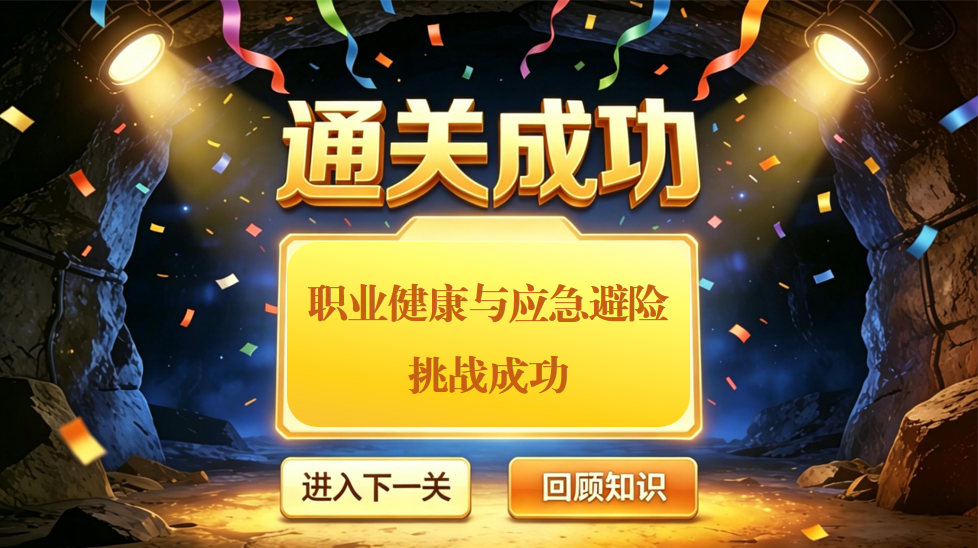
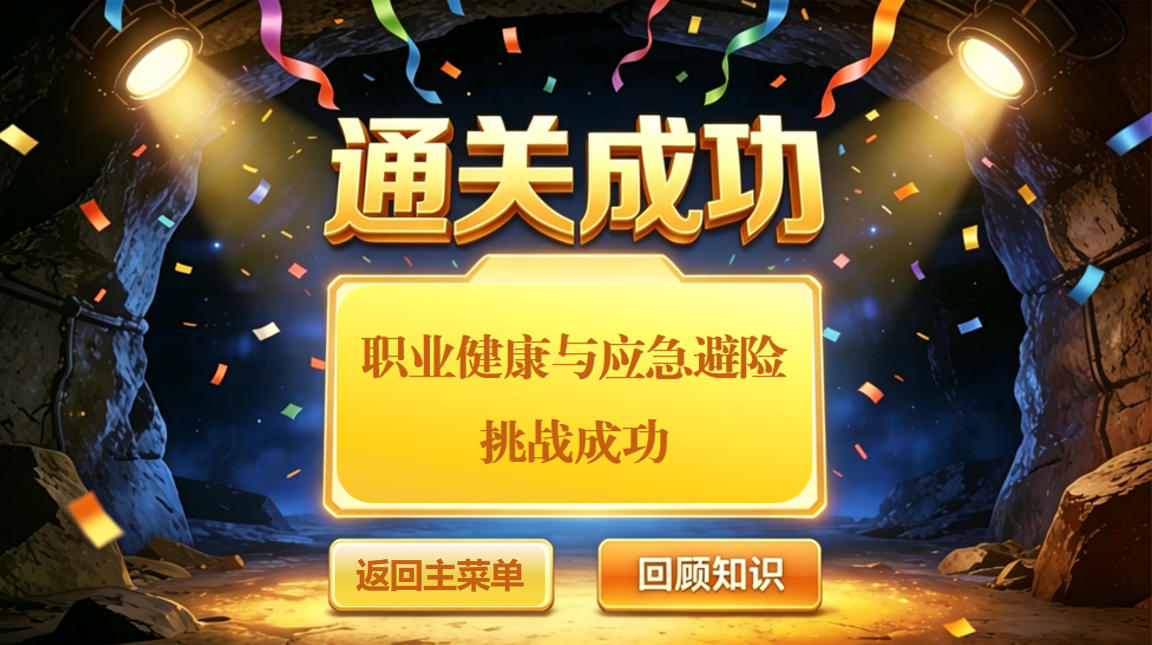
更新安全教育游戏

diff --git a/public/index.html b/public/index.html
@@ -3,14 +3,14 @@
 <head>
     <meta charset="UTF-8">
     <meta name="viewport" content="width=device-width, initial-scale=1.0">
-    <title>矿山安全教育游戏</title>
+    <title>《矿山安全守卫者》</title>
     <link rel="stylesheet" href="css/style.css">
 </head>
 <body>
     <div id="app">
         <div id="login-screen" class="screen active">
             <div class="login-container">
-                <h1>矿山安全教育游戏</h1>
+                <h1>《矿山安全守卫者》</h1>
                 <div class="login-form">
                     <input type="text" id="username" placeholder="请输入用户名" maxlength="20">
                     <button id="login-btn">登录</button>

diff --git a/public/css/style.css b/public/css/style.css
@@ -410,15 +410,15 @@ body {
 
 .retry-btn,
 .restart-btn {
-    top: 55%;
-    left: 50%;
+    top: 78%;
+    left: 35%;
     transform: translate(-50%, -50%);
     background: linear-gradient(135deg, #f093fb 0%, #f5576c 100%);
 }
 /* 游戏结果按钮样式 */
 .review-btn {
-    top: 70%;
-    left: 50%;
+    top: 78%;
+    left: 65%;
     transform: translate(-50%, -50%);
     background: linear-gradient(135deg, #4facfe 0%, #00f2fe 100%);
 }

diff --git a/server.js b/server.js
@@ -70,7 +70,6 @@ app.get('/api/categories', (req, res) => {
   }
 });
 
-const PORT = process.env.PORT || 3000;
 app.listen(PORT, () => {
-    console.log(`Server running on port ${PORT}`);
+  console.log(`服务器运行在 http://localhost:${PORT}`);
 });
